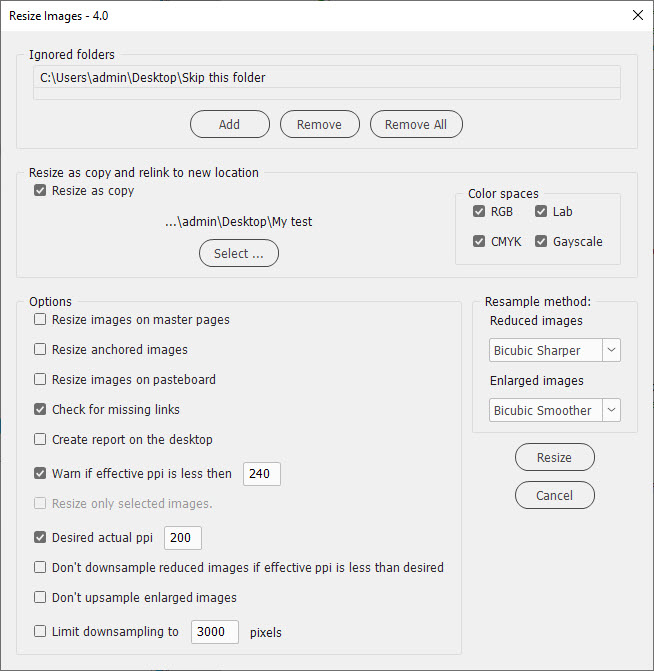
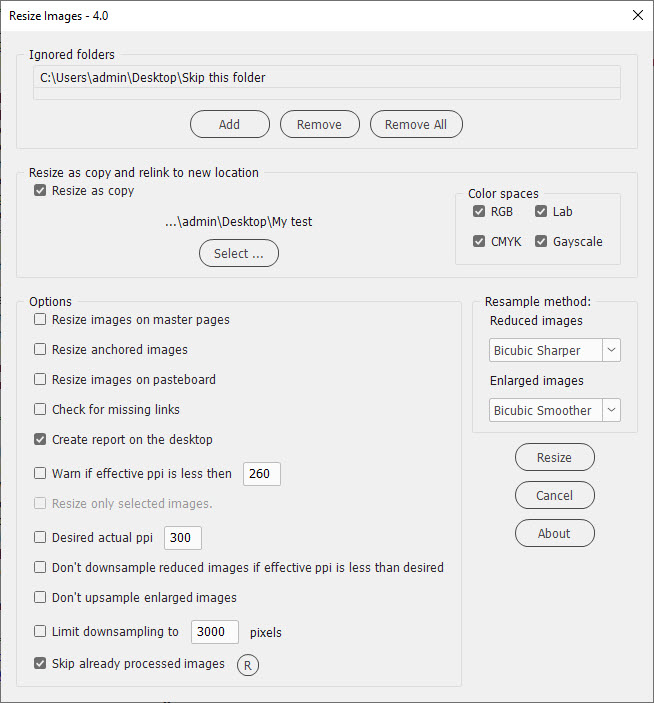
260626

diff --git a/indesign/image/resize_images/resize_images.html b/indesign/image/resize_images/resize_images.html
@@ -74,7 +74,6 @@
       <li>TIF</li>
       <li>PSD</li>
       <li>JPEG</li>
-      <li>EPS (Photoshop only)</li>
       <li>PNG</li>
       <li>ScitexCT</li>
       <li>PC PaintBrush</li>
@@ -83,11 +82,13 @@
       <li>WEBP</li>
       <li>HEIC</li>
     </ul>
-    <p><br />
-  </p>
     <p><img src="resize_images.jpg" width="654" height="671" alt=""/></p>
     <p>&nbsp;</p>
-    <p>Click here to download the current version<span class="bodyText">.</span>  </p>
+    <hr/>
+    <p>If you have any feedback &#8212; complaints, comments, or suggestions &#8212; feel free to <a href="mailto:askoldich@yahoo.com">send me an e-mail</a> putting <em>Resize images</em> into the subject line. (Warning: unfortunately, I can&rsquo;t reply to all the e-mails I get because  of lack of time. Sorry in advance!)</p>
+    <p><span id="docs-internal-guid-f91a61a9-7fff-c95d-5e3e-12d1c2c1fd29">If you found this script useful and want me to develop it further</span>, consider supporting me by donating via <em>PayPal</em> directly to my e-mail: <strong>askoldich</strong> [at] <strong>yahoo</strong> [dot] <strong>com</strong> (Due to PayPal&rsquo;s restrictions for Ukraine, I can&rsquo;t have a <em>Donate</em> button on my site.)</p>
+    <hr/>
+    <p>Click here to download the current version of the script<span class="bodyText">.</span>  </p>
   </div>
   <!-- InstanceEndEditable -->
   <div class="footer"></div>
